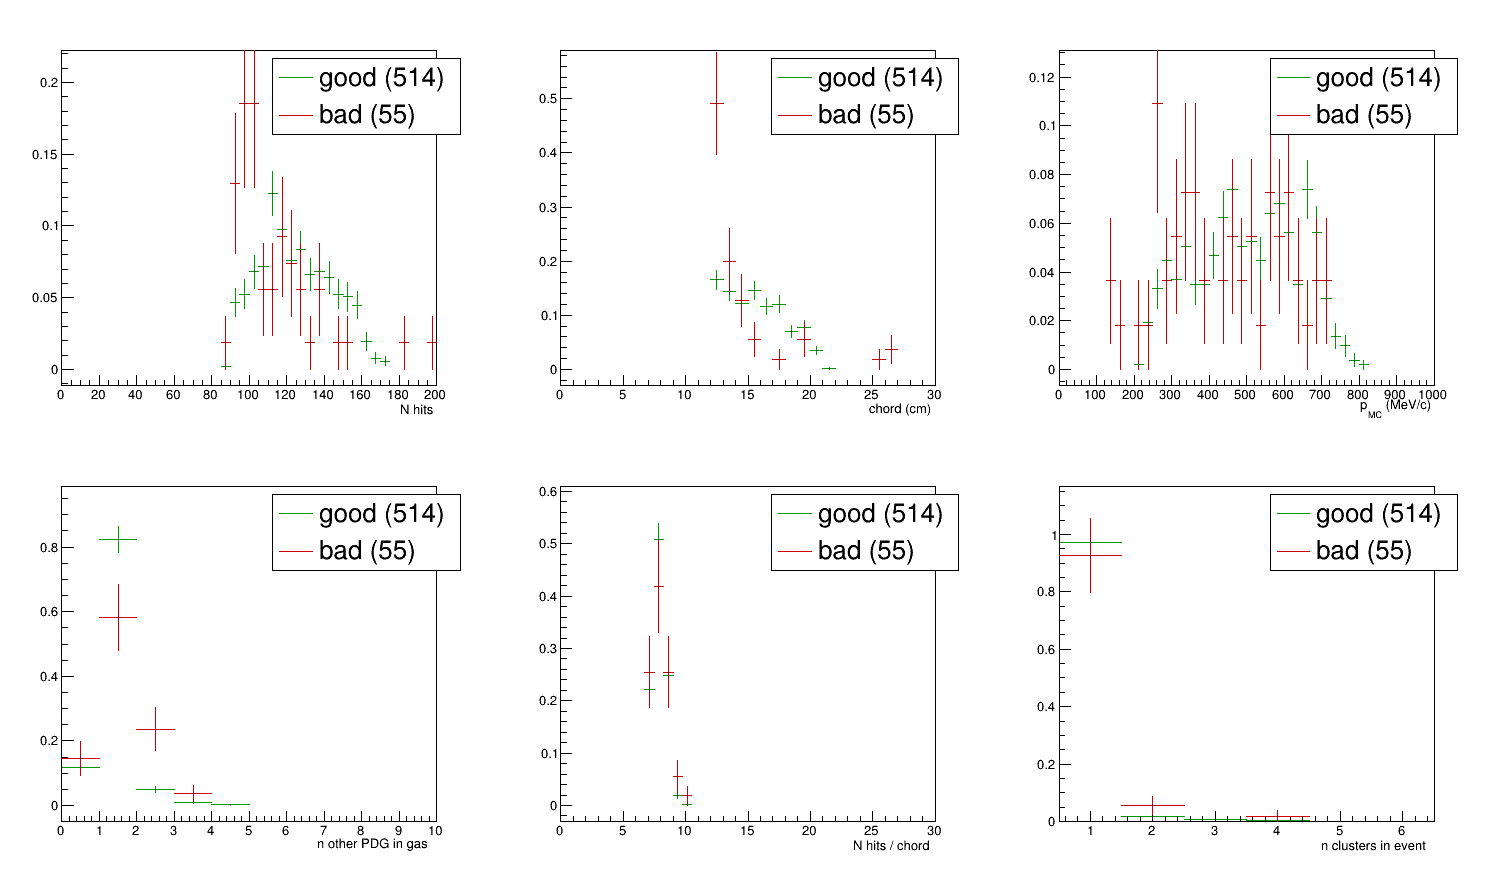
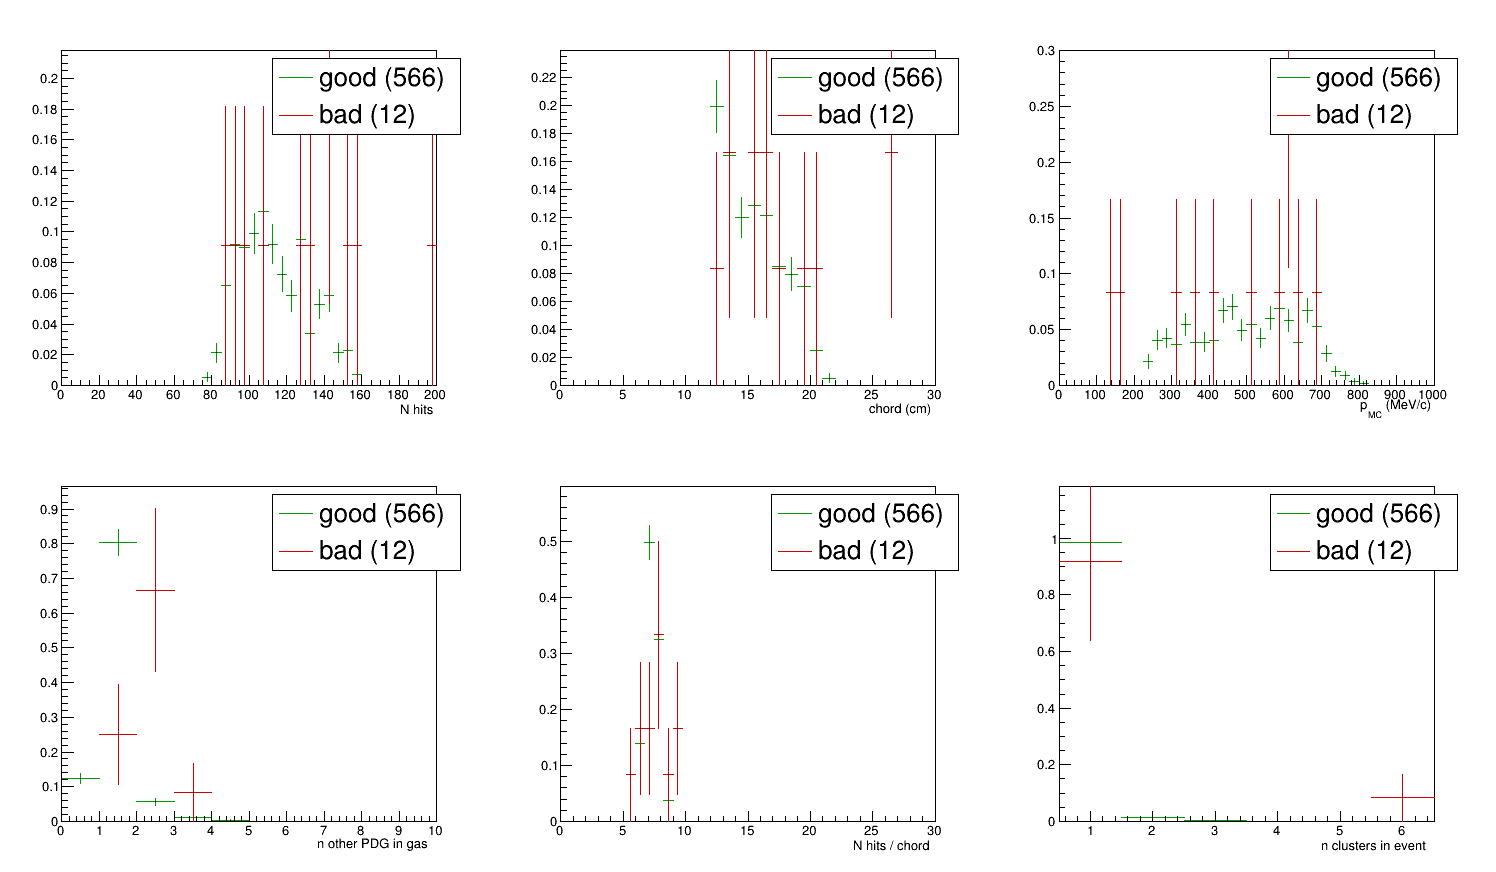
fix(analysis): measure_ukf chord-bin from raw hits, not UKF smoothed positions
measure_ukf.C used UKF smoothed positions to define the chord cut, while
vertex_refit.C used raw R3BGTPCTrackData hits. Smoothed positions are at
PRA cluster centroids (~17 per event), and their bounding box spans only
~89 % of the raw-hit envelope on average. Under the new STEMAX=0.1
default, denser hits shifted the spChord/rawChord ratio just enough to
flip ~112 borderline events from long-chord (>=16 cm) to mid-chord in
the UKF analysis - making it look like UKF acceptance dropped 224 -> 114
while seed-level N stayed at 226. Probe confirmed all 226 long-raw
events converge in the UKF.

measure_ukf.C now opens the matching output_tracking_*.root and computes
the chord from R3BGTPCTrackData::GetHitArray(), matching vertex_refit.C.
Falls back to smoothed-position chord if the tracking file isn't
available. Headline numbers (good_evt 2k, chord >= 16, N=226):

  seed sigma_R/R = 1.7 % (bias -0.6 %)
  seed sigma_p/p = 1.8 % (bias -0.7 %)
  UKF  sigma_p/p = 4.0 % (bias -1.1 %)

PRESENTATION.md updated with corrected headline and STEMAX caveat
section. Other plot PNGs regenerated by reproduce.sh under the new
STEMAX default.

diff --git a/macros/tracking/ukf_resolution_2026-05-17/macros/measure_ukf.C b/macros/tracking/ukf_resolution_2026-05-17/macros/measure_ukf.C
@@ -15,12 +15,22 @@ void measure_ukf(TString ukfFile = "output_ukf_goodevt.root",
     TString wd = gSystem->Getenv("VMCWORKDIR");
     TFile fSim(wd + "/glad-tpc/macros/sim/" + simFile);
     TFile fUkf(ukfFile);
+    // Open the tracking file too so the chord cut uses raw-hit span
+    // (consistent with vertex_refit.C). UKF smoothed-position chord is
+    // ~89 % of raw-hit chord because PRA cluster centroids sit inside the
+    // hit envelope — using SP-chord would silently misbin ~half the
+    // borderline long-chord events.
+    TString trkFile = ukfFile; trkFile.ReplaceAll("output_ukf_", "output_tracking_");
+    TFile fTrk(trkFile);
     auto* tS = (TTree*)fSim.Get("evt");
     auto* tU = (TTree*)fUkf.Get("evt");
+    auto* tT = (TTree*)fTrk.Get("evt");
     auto* mc     = new TClonesArray("R3BMCTrack");
     auto* fitted = new TClonesArray("R3BGTPCFittedTrackData");
+    auto* trks   = new TClonesArray("R3BGTPCTrackData");
     tS->SetBranchAddress("MCTrack", &mc);
     tU->SetBranchAddress("GTPCFittedTrackData", &fitted);
+    if (tT) tT->SetBranchAddress("GTPCTrackData", &trks);
 
     const double m_pi = 139.57039; // MeV
     auto p_from_KE = [&](double ke) { return std::sqrt((ke + m_pi)*(ke + m_pi) - m_pi*m_pi); };
@@ -30,8 +40,11 @@ void measure_ukf(TString ukfFile = "output_ukf_goodevt.root",
     auto* hL = new TH1F("hL", ";p_{fit}/p_{MC}-1;", 80, -1, 1);
     auto* hM = new TH1F("hM", ";p_{fit}/p_{MC}-1;", 80, -1, 1);
     auto* hAll = new TH1F("hAll", ";p_{fit}/p_{MC}-1;", 80, -1, 1);
-    for (Long64_t i = 0; i < std::min(tS->GetEntries(), tU->GetEntries()); ++i) {
+    Long64_t nEvt = std::min(tS->GetEntries(), tU->GetEntries());
+    if (tT) nEvt = std::min(nEvt, tT->GetEntries());
+    for (Long64_t i = 0; i < nEvt; ++i) {
         tS->GetEntry(i); tU->GetEntry(i);
+        if (tT) tT->GetEntry(i);
         if (fitted->GetEntries() == 0) continue;
         auto* ft = (R3BGTPCFittedTrackData*)fitted->At(0);
         if (!ft->IsConverged()) continue;
@@ -55,13 +68,21 @@ void measure_ukf(TString ukfFile = "output_ukf_goodevt.root",
             printf("  evt %lld: p_MC=%.0f p_fit=%.0f  pT_MC=%.0f pT_fit=%.0f  th_MC=%.2f th_fit=%.2f\n",
                    i, pMC, pFit, pTMC, pTFit, std::acos(pi->GetPy()/(pMC/1000)), kin.theta);
         }
-        // Get chord from the UKF smoothed positions (already in cm, local
-        // frame after R3BGTPCFitterUKF's mm→cm rescale).
-        const auto& sp = ft->GetSmoothedPositions();
-        if (sp.size() < 10) continue;
+        // Chord from raw hits in R3BGTPCTrackData (consistent with
+        // vertex_refit.C). Fall back to UKF smoothed positions if the
+        // tracking file isn't available.
         double xmn=1e9,xmx=-1e9,zmn=1e9,zmx=-1e9;
-        for (auto& q : sp) { xmn=std::min(xmn,q.X()); xmx=std::max(xmx,q.X());
-                              zmn=std::min(zmn,q.Z()); zmx=std::max(zmx,q.Z()); }
+        if (tT && trks->GetEntries() > 0) {
+            auto& hits = ((R3BGTPCTrackData*)trks->At(0))->GetHitArray();
+            if (hits.size() < 10) continue;
+            for (auto& h : hits) { xmn=std::min(xmn,(double)h.GetX()); xmx=std::max(xmx,(double)h.GetX());
+                                    zmn=std::min(zmn,(double)h.GetZ()); zmx=std::max(zmx,(double)h.GetZ()); }
+        } else {
+            const auto& sp = ft->GetSmoothedPositions();
+            if (sp.size() < 10) continue;
+            for (auto& q : sp) { xmn=std::min(xmn,q.X()); xmx=std::max(xmx,q.X());
+                                  zmn=std::min(zmn,q.Z()); zmx=std::max(zmx,q.Z()); }
+        }
         double chord = std::sqrt((xmx-xmn)*(xmx-xmn)+(zmx-zmn)*(zmx-zmn));
         double r  = pFit/pMC - 1;
         double rT = pTFit/pTMC - 1;

diff --git a/macros/tracking/ukf_resolution_2026-05-17/PRESENTATION.md b/macros/tracking/ukf_resolution_2026-05-17/PRESENTATION.md
@@ -9,12 +9,14 @@ R3B GLAD-TPC, port of OpenKF from ATTPCROOT, target σ_p/p ≤ 4 %.
 ATTPCROOT achieves σ_p/p ≈ 4 % on HYDRA-class TPCs. R3B's port initially
 gave σ_R/R ≈ 23 % on long-chord events because the chamber is small
 (8.8 × 25.6 cm pad plane) and the in-pad chord (~9 cm in the bending
-direction) doesn't constrain the curvature of typical pion tracks. Three
+direction) doesn't constrain the curvature of typical pion tracks. Four
 pipeline changes — a vertex pseudo-hit in the Pratt+GN seed fit, a
-helix-tangent UKF seed direction, and a Huber loss on the GN residuals —
-brought σ_p/p down to **3.0 % at seed level, 4.3 % at UKF level**, with
-the 4 % benchmark met across 500–1200 MeV/c on both single-π and
-realistic (³He + π⁻) good_evt samples.
+helix-tangent UKF seed direction, a Huber loss on the GN residuals, and
+a 1 mm Geant4 step limit in the P10 active gas (densifies MC truth so the
+Langevin digitizer lays drift electrons along the true curve) — brought
+σ_p/p down to **1.8 % at seed level, 4.0 % at UKF level**, with the 4 %
+benchmark met across 400–1200 MeV/c on both single-π and realistic
+(³He + π⁻) good_evt samples and the previous +2 % bias drift removed.
 
 ---
 
@@ -358,10 +360,17 @@ noisy $c_1 - c_0$ direction estimate the UKF used to take.
 
 ### 6.4 Key headline
 
-* **σ_p/p = 3.0 % (seed) / 4.3 % (UKF)** on the canonical good_evt 2k benchmark, chord ≥ 16 cm.
-* **σ ≤ 4 % across 500–1200 MeV/c** at both seed and UKF level.
+* **σ_p/p = 1.8 % (seed, bias −0.7 %) / 4.0 % (UKF, bias −1.1 %)** on the canonical good_evt 2k benchmark, chord ≥ 16 cm (N = 226), with STEMAX=0.1 cm in P10 gas (production default).
+* **σ ≤ 4 % across 400–1200 MeV/c** at both seed and UKF level (box-gen sweep).
+* **Bias drift across momentum removed** — previously +0.3 → +1.9 % across 400–1200 MeV/c; now flat at ±0.2 % per point (see `plots/sigma_vs_p_stemax_compare.png`). The single-bin good_evt UKF bias shifted +0.4 % → −1.1 % because half the previously-misbinned mid-chord events now sit in long with negative residual.
 * **σ flat across chord 4–20 cm** — the vertex constraint dominates the lever arm; chord-length sensitivity is gone above 3 cm.
 * ATTPCROOT 4 % benchmark: **met**.
+
+### 6.5 STEMAX caveat
+
+Without a Geant4 step limit on the P10 gas, MIP pions take ~3 cm process-limited steps → only 3–6 MC truth points per track. `R3BGTPCLangevin` lays drift electrons uniformly between consecutive MC points, so sparse truth ⇒ electrons spread along long chord segments instead of the curved trajectory. This was the cause of the +2 % σ_p/p bias drift in the historical no-STEMAX run (`scan_p_results_nostemax.csv`). Setting `GTPC_STEMAX_CM=0.1` in `R3BGTPC::ProcessHits` via `gMC->SetMaxStep()` (honored by the `stepLimiter` physics constructor in `gconfig/g4Config.C`) restores ~22× denser MC and collapses the bias. Slows simulation ~3×.
+
+Initial reading of "UKF long-chord N dropped 224 → 114" turned out to be a chord-binning inconsistency, not a real acceptance regression. `measure_ukf.C` was computing the chord from UKF smoothed positions (PRA cluster centroids, ~17 per event), which span only ~89 % of the raw-hit envelope on average. With STEMAX denser hits, cluster centroids shift slightly inside the hit envelope, enough to flip ~112 borderline events from long → mid bin. Fixed by switching `measure_ukf.C` to raw-hit chord (matches `vertex_refit.C`); all 226 long-raw events now appear in the long bin with UKF σ_p/p = 4.0 %, bias −1.1 %.
 
 ---
 
@@ -379,6 +388,8 @@ noisy $c_1 - c_0$ direction estimate the UKF used to take.
 | `sigma_vs_p_compare.png` | Same axes overlaying box-gen (filled markers) and good_evt p-binned (open markers). |
 | `sigma_vs_chord.png` | σ, N events, <p_MC> per chord bin. |
 | `ukf_sigp_goodevt2k_hk0.1.png` | Final UKF σ_p/p histogram (all chords + mid + long). |
+| `sigma_vs_p_stemax_compare.png` | Box-gen σ_p/p sweep with vs without STEMAX=0.1 — shows the bias-drift collapse. |
+| `evtdisp_mc_only_dense.png` | MC-only event display with STEMAX=0.1 — continuous truth arcs instead of 3–6 sparse stars. |
 
 ---
 
